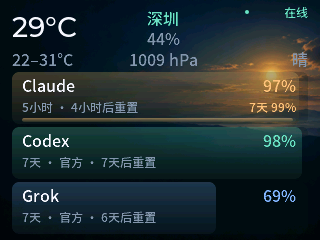
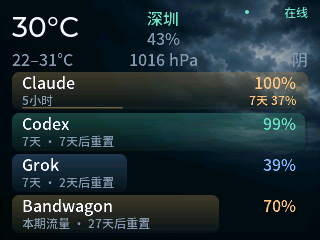
feat(display): dynamically lay out all server quotas and traffic balances

diff --git a/apps/xiaobucubic/tests/test_display.py b/apps/xiaobucubic/tests/test_display.py
@@ -57,9 +57,9 @@ class DisplayTest(unittest.TestCase):
         self.fixture["subscriptions"]=[dict(self.fixture["subscriptions"][0],id=str(n)) for n in range(30)]
         self.fixture["messages"]=[{"text":"test"} for _ in range(30)]
         data=self.normalize(self.fixture)
-        self.assertEqual(len(data.subscriptions),3)
+        self.assertEqual(len(data.subscriptions),30)
         self.assertEqual(len(data.messages),12)
-        self.assertEqual(len(self.model.pages(data)),2)
+        self.assertEqual(len(self.model.pages(data)),6)
 
     def test_remaining_and_long_message(self):
         data=self.normalize(self.fixture)
@@ -89,7 +89,7 @@ class DisplayTest(unittest.TestCase):
         lua.globals().PY_MODEL=self.model
         lua.globals().PY_DOC=lua_value(lua,self.fixture)
         lua.execute('''
-        labels={}; requests={}; writes={}; timers={}; nodes={}; node_id=1; cleans=0; mutations={}; images=0; mono=0; styles={}; long_modes={}
+        labels={}; requests={}; writes={}; timers={}; nodes={}; node_id=1; cleans=0; mutations={}; images=0; mono=0; styles={}; long_modes={}; positions={}; sizes={}
         LV_PART_MAIN=0; LV_OBJ_FLAG_SCROLLABLE=1; LV_TEXT_ALIGN_LEFT=0; LV_TEXT_ALIGN_RIGHT=1; LV_TEXT_ALIGN_CENTER=2
         LV_LABEL_LONG_WRAP=0; LV_LABEL_LONG_SCROLL=1; LV_LABEL_LONG_DOT=2; LV_GRAD_DIR_VER=1
         LV_FONT_MONTSERRAT_12=12; LV_FONT_MONTSERRAT_16=16; LV_FONT_MONTSERRAT_20=20; LV_FONT_MONTSERRAT_28=28
@@ -119,8 +119,13 @@ class DisplayTest(unittest.TestCase):
         lv_obj_create=create;lv_label_create=create
         lv_img_create=create;lv_img_set_src=function(id,path) image_path=path;images=images+1 end
         lv_obj_clean=function() labels={};nodes={};cleans=cleans+1 end
-        lv_obj_del=function(id) labels[id]=nil;nodes[id]=nil end
-        lv_obj_set_pos=function() end;lv_obj_set_size=function() end
+        lv_obj_del=function(id)
+          local children={};for child,parent in pairs(nodes) do if parent==id then children[#children+1]=child end end
+          for _,child in ipairs(children) do lv_obj_del(child) end
+          labels[id]=nil;nodes[id]=nil;positions[id]=nil;sizes[id]=nil
+        end
+        lv_obj_set_pos=function(id,x,y) positions[id]={x=x,y=y} end
+        lv_obj_set_size=function(id,w,h) sizes[id]={width=w,height=h} end
         lv_obj_clear_flag=function() end;lv_label_set_long_mode=function(id,mode) long_modes[id]=mode end
         lv_label_set_text=function(id,value) assert(type(value)=='string');labels[id]=value;mutations[#mutations+1]={id=id,text=value} end
         for _,s in ipairs({'bg_color','bg_opa','bg_grad_color','bg_grad_dir','bg_main_stop','bg_grad_stop','border_width','radius','pad_all','text_font','text_color','text_align','text_line_space'}) do
@@ -136,6 +141,126 @@ class DisplayTest(unittest.TestCase):
             """)
         lua.execute((ROOT/"package/main.lua").read_text())
         return lua.globals()
+
+    def dynamic_subscriptions(self, count):
+        now=self.fixture["generated_at"]
+        return [{"id":f"provider-{i}","name":f"服务{i}","source":"official","updated_at":now,
+                 "windows":[{"label":"本期","used_percent":i,"reset_at":now+86400}]}
+                for i in range(count)]
+
+    def test_dynamic_layout_retains_order_and_never_overflows(self):
+        for count in (0,1,2,3,4,5,6,7,12,13,30):
+            with self.subTest(count=count):
+                self.fixture["subscriptions"]=self.dynamic_subscriptions(count)
+                data=self.normalize(self.fixture)
+                seen=[]
+                for page in range(1,self.model.quota_pages(data)+1):
+                    cards,actual=self.model.subscription_layout(data,page)
+                    self.assertEqual(actual,page)
+                    boxes=[]
+                    for card in cards.values():
+                        seen.append(data.subscriptions[card.index].id)
+                        x,y,w,h=card.x,card.y,card.width,card.height
+                        self.assertGreaterEqual(x,0);self.assertGreaterEqual(y,72)
+                        self.assertLessEqual(x+w,320);self.assertLessEqual(y+h,240)
+                        for bx,by,bw,bh in boxes:
+                            self.assertFalse(x<bx+bw and x+w>bx and y<by+bh and y+h>by)
+                        boxes.append((x,y,w,h))
+                self.assertEqual(seen,[p["id"] for p in self.fixture["subscriptions"]])
+
+    def test_traffic_balance_from_fields_not_provider_id(self):
+        self.fixture["subscriptions"]=self.dynamic_subscriptions(4)
+        self.fixture["subscriptions"][3]["windows"][0].update(
+            total_bytes=1000*1024**3,used_bytes=250*1024**3,remaining_bytes=1,used_percent=99)
+        data=self.normalize(self.fixture)
+        w=data.subscriptions[4].windows[1]
+        self.assertEqual(w.remaining_bytes,750*1024**3)
+        self.assertEqual(w.used_percent,25)
+        g=self.boot();g.requests[1](200,"valid")
+        self.assertIn("服务3",list(g.labels.values()))
+        self.assertIn("750GiB/1000GiB",list(g.labels.values()))
+        self.assertTrue(any("75%" in value for value in g.labels.values()))
+        self.assertEqual(self.model.format_bytes(0),"0B")
+        self.assertEqual(self.model.format_bytes(1024**4),"1TiB")
+        self.assertEqual(self.model.format_bytes(1024**3-1),"1023.9MiB")
+        self.assertEqual(self.model.format_bytes(None),"--")
+
+    def test_invalid_traffic_does_not_show_fabricated_balance(self):
+        for total,used in ((0,1),(100,-1),(True,1),(100,"1"),(float("inf"),1),(100,0.5)):
+            with self.subTest(total=total,used=used):
+                self.fixture["subscriptions"]=self.dynamic_subscriptions(1)
+                self.fixture["subscriptions"][0]["windows"][0].update(total_bytes=total,used_bytes=used)
+                w=self.normalize(self.fixture).subscriptions[1].windows[1]
+                self.assertIsNone(w.remaining_bytes)
+        self.fixture["subscriptions"][0]["windows"][0].update(total_bytes=100,used_bytes=125)
+        w=self.normalize(self.fixture).subscriptions[1].windows[1]
+        self.assertEqual(w.remaining_bytes,0)
+        self.assertEqual(self.model.remaining(w),0)
+
+    def test_unknown_provider_two_windows_and_grid_geometry(self):
+        self.fixture["subscriptions"]=self.dynamic_subscriptions(6)
+        self.fixture["subscriptions"][0]["windows"].append({"label":"年额度","used_percent":50})
+        self.fixture["subscriptions"][5]["windows"][0].update(total_bytes=1000,used_bytes=400)
+        g=self.boot();g.requests[1](200,"valid")
+        self.assertIn("年额度 50%",list(g.labels.values()))
+        self.assertIn("600B/1000B",list(g.labels.values()))
+        for i in range(6):self.assertIn(f"服务{i}",list(g.labels.values()))
+        for label in g.labels:
+            parent=g.nodes[label]
+            if parent!=0:
+                pos,size=g.positions[label],g.sizes[label]
+                panel=g.sizes[parent]
+                self.assertGreaterEqual(pos.x,0);self.assertGreaterEqual(pos.y,0)
+                self.assertLessEqual(pos.x+size.width,panel.width)
+                self.assertLessEqual(pos.y+size.height,panel.height)
+        g.key.callback(g.key.UP,g.key.SHORT)
+        self.assertIn("50%",list(g.labels.values()))
+        self.assertIn("本期 100%",list(g.labels.values()))
+
+    def test_all_subscription_pages_reachable_without_messages(self):
+        self.fixture["subscriptions"]=self.dynamic_subscriptions(13)
+        self.fixture["messages"]=[]
+        g=self.boot();g.requests[1](200,"valid")
+        observed=set()
+        for page in range(3):
+            observed.update(text for text in g.labels.values() if text.startswith("服务"))
+            g.key.callback(g.key.RIGHT,g.key.SHORT)
+        self.assertEqual(observed,{f"服务{i}" for i in range(13)})
+        self.assertEqual(g.XIAOBUCUBIC.state.quota_page,1)
+        g.key.callback(g.key.LEFT,g.key.SHORT)
+        self.assertEqual(g.XIAOBUCUBIC.state.quota_page,3)
+        self.assertIn("服务12",list(g.labels.values()))
+        for _ in range(15):g.timers[1].callback()
+        self.assertEqual(g.XIAOBUCUBIC.state.quota_page,1)
+
+    def test_message_page_follows_all_quota_pages(self):
+        self.fixture["subscriptions"]=self.dynamic_subscriptions(7)
+        g=self.boot();g.requests[1](200,"valid")
+        for _ in range(15):g.timers[1].callback()
+        self.assertEqual(g.XIAOBUCUBIC.state.page,1)
+        self.assertEqual(g.XIAOBUCUBIC.state.quota_page,2)
+        for _ in range(15):g.timers[1].callback()
+        self.assertEqual(g.XIAOBUCUBIC.state.page,2)
+        g.key.callback(g.key.RIGHT,g.key.SHORT)
+        self.assertEqual(g.XIAOBUCUBIC.state.page,1)
+        self.assertEqual(g.XIAOBUCUBIC.state.quota_page,1)
+
+    def test_add_remove_reorder_reflows_without_clearing_screen(self):
+        self.fixture["messages"]=[]
+        self.fixture["subscriptions"]=self.dynamic_subscriptions(3)
+        g=self.boot();g.requests[1](200,"valid")
+        cleans=g.cleans
+        for count in (4,6,7,1,0,5):
+            self.fixture["subscriptions"]=list(reversed(self.dynamic_subscriptions(count)))
+            g.PY_DOC=lua_value(self.lua,self.fixture)
+            g.XIAOBUCUBIC.refresh(True);g.requests[len(g.requests)](200,"valid")
+            self.assertEqual(g.cleans,cleans)
+            self.assertLessEqual(g.XIAOBUCUBIC.state.quota_page,self.model.quota_pages(g.XIAOBUCUBIC.state.snapshot))
+            current=set(text for text in g.labels.values() if text.startswith("服务"))
+            self.assertEqual(current,{p["name"] for p in self.fixture["subscriptions"][:6]})
+            if count==7:
+                g.key.callback(g.key.RIGHT,g.key.SHORT)
+                self.assertEqual(g.XIAOBUCUBIC.state.quota_page,2)
 
     def test_http_auth_error_keeps_last_good_snapshot(self):
         g=self.boot()

diff --git a/apps/xiaobucubic/tools/build.py b/apps/xiaobucubic/tools/build.py
@@ -2,9 +2,11 @@
 """Build an SD-card layout ZIP. Runtime credentials/cache are never included."""
 from pathlib import Path
 import zipfile
+import re
 
 root = Path(__file__).resolve().parents[1]
-out = root/"dist/xiaobucubic-1.0.0.zip"
+version = re.search(r"^version\s*=\s*([\w.-]+)\s*$", (root/"package/app.info").read_text(), re.M).group(1)
+out = root/f"dist/xiaobucubic-{version}.zip"
 out.parent.mkdir(exist_ok=True)
 with zipfile.ZipFile(out, "w", zipfile.ZIP_DEFLATED) as archive:
     for file in sorted((root/"package").rglob("*")):

diff --git a/apps/xiaobucubic/README.md b/apps/xiaobucubic/README.md
@@ -2,7 +2,9 @@
 
 运行于 **ClocTeck HoloCubic Lua 固件**的小屏信息面板，针对 320×240 设计。安装应用不需要重新烧录固件。
 
-只有两个视图：**主页**显示 Claude、Codex、Grok 的剩余额度、重置倒计时，并将天气融合进背景与顶部；**消息页**显示提醒文字。有消息时每 15 秒在两个视图间轮播，多条消息依次展示；没有消息时一直停留在主页。服务返回空提醒数组后立即回到主页。
+**主页**按服务端 `subscriptions` 数组动态显示全部订阅、流量余额和重置倒计时，不写死提供商名称或数量。1–3 项使用宽卡片，4 项缩短行高同屏显示，5–6 项改为两列；超过 6 项自动分页，每 15 秒轮播，也可左 / 右翻页。天气融合进背景与顶部；有有效提醒时，在所有额度页之后插入**消息页**，多条消息依次展示。服务删除提醒后回到额度页。
+
+余额来自窗口字段：只有百分比时显示剩余百分比；提供 `total_bytes` 和 `used_bytes` 时自动显示实际剩余 / 总流量（如 `750GiB/1000GiB`），同时保留剩余比例。任意提供商的双窗口都显示次窗口细条；新增搬瓦工或其他项目不需要再次修改客户端。接口增删、重排项目时复用现有控件并重新计算位置。
 
 主页省去“Token 额度 / 剩余比例 / 主窗口”等说明行，直接展示天气和额度卡片。有天气背景时，卡片底板和进度填充均为半透明，叠加后不超过 40.4% 不透明度，天气图案可透出。额度进度以卡片全高的半透明纵向渐变表示，上方稍亮、下方渐淡，宽度对应剩余额度，文字位于填充上层。剩余低于 20% 为警告黄，低于 5% 为警戒红（数字与填充同步变色），20% 及以上使用订阅配色；天气“已过期”提示独立显示在天气文字上方。Claude 的另一个额度窗口显示为卡片底部 4px 细条，右下角显示窗口标签与剩余百分比；默认大面积显示 5 小时额度，细条显示 7 天额度，上键交换两者。Claude 下方说明固定显示窗口与重置时间，省略重复的“官方”字样，过长文本省略显示，不滚动。两个视图均不设标题栏和底部状态栏，右上角显示同步 / 在线 / 离线状态。模拟数据的“演示”标识紧邻右上角联网状态。额度卡片和消息正文使用释放出的底部空间。消息不显示标题；正文使用 22px 中文字体，每段最多 7 行，保留原始换行，自动折行和分段；城市、湿度和气压在中间一列统一居中对齐，湿度（如 `51%`）放在城市下方；天气区下沿依次显示温度范围（`23–32°C`）、气压（`1011 hPa`）和天气（如“晴”），使用 16px 字号并省去数值的文字标签。
 
@@ -10,14 +12,16 @@
 
 | 操作 | 效果 |
 |---|---|
-| 左 / 右 | 有消息时切换主页 / 消息页；无消息时留在主页 |
+| 左 / 右 | 在全部额度页及有效消息页之间切换；只有一页时保持当前页 |
 | 上 | 主页切换可用的主 / 次额度窗口并刷新（单窗口订阅保持不变）；消息页显示下一条 / 下一段 |
 | 下 | 暂停 / 恢复轮播 |
 | Home | 退出 |
 
 ## 安装
 
-`package/` 的内容复制到 TF 卡 `/apps/xiaobucubic/`，然后在 Launcher 重新扫描应用。也可将 `dist/xiaobucubic-1.0.0.zip` 解压到 TF 卡根目录。
+`package/` 的内容复制到 TF 卡 `/apps/xiaobucubic/`，然后在 Launcher 重新扫描应用。也可将 `dist/xiaobucubic-1.1.0.zip` 解压到 TF 卡根目录。升级时保留设备已有 `config.json` 与 `cache.json`，不要用包内空配置覆盖实际服务端地址和读取 token。
+
+USB 读卡器可直接更新 TF 卡；设备的 ESP32 USB 烧录串口与 TF 卡文件是两个不同通道。当前项目提供的是 Lua 应用安装包，并非可写入 ESP32 Flash 的整机 ROM 镜像。
 
 设备已联网时，使用 Python 3 的部署工具（无第三方依赖）：
 

diff --git a/apps/xiaobucubic/API.md b/apps/xiaobucubic/API.md
@@ -31,7 +31,7 @@ Authorization: Bearer <read_token>
 | `generated_at` | 必填，响应生成时间 |
 | `stale_after_seconds` | 可选，数据有效期，默认 900 秒，范围 30–86400 |
 | `demo` | 可选，`true` 显示醒目的“演示”标识；生产数据设 `false` 或省略 |
-| `subscriptions` | 必填数组，主页显示前 3 项，按服务端数组顺序显示，不重新按 `order` 排序 |
+| `subscriptions` | 必填数组，保留全部项目，按服务端顺序动态排版；1–4 项单列、5–6 项双列，更多项目每页最多 6 项自动轮播，也可左 / 右翻页 |
 | `messages` | 必填数组，最多 12 条，在同一个消息页依次展示；`[]` 时只显示主页 |
 | `weather` | 对象或 `null`；融合在主页，不设独立天气页 |
 
@@ -51,9 +51,10 @@ Authorization: Bearer <read_token>
 }
 ```
 
-- `id` 是稳定标识，内置 Claude / Codex / Grok 配色；也支持其他订阅。
-- `windows[1]` 为主窗口，`windows[2]` 为次窗口；上键切换，最多 2 个窗口。Claude 有两个窗口时，当前窗口显示为大面积填充，另一个窗口显示为卡片底部 4px 半透明细条及标签 / 剩余百分比，上键交换大小窗口。Claude 双窗口时省略重复的“官方”来源字样，保留窗口和重置时间；下方两段文字固定显示，过长时省略，不滚动。按数组顺序选取，默认第一项为大窗口，第二项为细条；不根据标签文字猜测窗口。只有一个窗口的订阅始终显示它；所有订阅都只有一个窗口时，上键不切换。`label` 仅作显示，支持任意 N 天 / 小时 / 分钟及“本期”等文字。
+- `id` 是稳定标识，同一响应内重复 ID 仅保留首项。名称、用量与窗口均从服务端读取；卡片按顺序循环配色，不依赖提供商 ID。
+- `windows[1]` 为主窗口，`windows[2]` 为次窗口；上键切换，最多 2 个窗口。任何订阅有两个窗口时，另一个窗口都显示为卡片底部细条及标签 / 剩余百分比，上键交换两者；不依赖提供商名称或标签文字。只有一个窗口时始终显示它。标签与重置倒计时在空间有限时省略，保留主余额和次窗口百分比。
 - `used_percent` 是 **已用百分比**。显示端转换成 **剩余百分比** `floor(max(0, 100 - used_percent))`。支持小数：33.5 显示剩余 66%，99.6 显示剩余 0%；例如 62 显示剩余 38%。`0` 是确实未用，显示剩余 100%；未知用 `null` 或省略，显示 `--`。这不是精确剩余 token 数。
+- 流量窗口可附带 `total_bytes`、`used_bytes`、`remaining_bytes`。有效的总量与用量必须是非负整数字节数，总量大于零，均不超过 `2^53-1`；客户端据此计算 `max(0,total_bytes-used_bytes)` 及比例，不依赖 provider ID，也不信任不一致的剩余数。单列卡片显示“剩余/总量”（如 `750GiB/1000GiB`），双列卡片额外用一行展示容量；单位随数值自动选择 B / KiB / MiB / GiB / TiB / PiB。无效字节字段忽略，继续使用百分比；不将缺失量伪造为零。
 - 剩余比例 `< 20%` 为警告黄，`< 5%` 为警戒红；恰好 20% 使用正常配色，恰好 5% 为黄色。卡片填充始终半透明，从上向下渐淡；0% 无填充、数字为红色，未知值仍显示 `--`。
 - `source` 可为 `official`、`manual`、`estimated`、`unknown`，对应官方、手动、估算、待接入。这是接口的来源声明，设备不独立验证。
 - 缺失或过期的 `updated_at`、已到期的 `reset_at` 会标记过期 / 待刷新，不擅自将用量归零。

diff --git a/apps/xiaobucubic/VALIDATION.md b/apps/xiaobucubic/VALIDATION.md
@@ -1,5 +1,17 @@
 # 验证记录
 
+## 2026-10-26：动态额度与流量余额（1.1.0）
+
+- 不再将订阅截断为前三项；保留服务端数组顺序，任意名称和 ID 均可显示。
+- 1–3 项使用宽卡片，4 项压缩行高同屏显示，5–6 项使用两列，更多项目按每页最多 6 项轮播。左右键遍历全部额度页和有效消息页；移除项目后自动收缩页数和布局。
+- 按窗口的总量、用量字节字段计算剩余量，显示自适应容量单位；双窗口显示不再限定 Claude。未知值、过期状态、告警阈值与缓存规则保留。
+- 38 项 Lua 测试、1 项模拟接口测试、13 项服务器测试通过。新增测试覆盖 0–30 项的数据保留、布局边界和不重叠、第四项流量显示、无效字节数据、任意提供商双窗口、分页与消息轮播，以及动态增删重排不清屏。
+- 已生成 `dist/xiaobucubic-1.1.0.zip`；安装包版本从 `app.info` 读取。
+- 已安装到 `10.15.2.72` 并逐文件回读校验；升级备份在 `.runtime/backups/20261026-145203-953595/`。设备 `config.json` 与升级前逐字节一致。
+- 实机真实接口返回 Claude、Codex、Grok、Bandwagon 四项，均已同屏显示；截图检查无卡片重叠或底部裁切。此次 Bandwagon 接口只提供百分比，显示剩余 70%，未伪造剩余字节数。
+- 两次真实 API 响应间隔 61 秒，第二次响应清屏次数为 0；字体加载正常，提醒页截图检查通过，临时 QA 已移除并恢复正式应用。[新版主页截图](preview/home.png)。
+- 连接排障：电脑原在 `10.17.0.x`，设备在 `10.15.2.x`，HTTP 请求超时。查阅此前成功记录后切换电脑至设备所在的已保存 Wi-Fi，电脑获得 `10.15.2.42` 后即恢复访问并完成安装。Type-C 曾成功输入 Wi-Fi 配网命令，应用文件安装使用网络接口；并非权限阻止了串口输入。此次只读检查确认 ESP32-S3 USB 烧录通道可用、Flash Encryption Enabled、Secure Boot Disabled，未执行底层 Flash 写入。
+
 2026-10-22，ClocTeck HoloCubic，固件 1.212，320×240 屏幕。
 
 - 23 项 Lua 模型 / 生命周期 / 局部刷新测试全部通过，另有 1 项 Python 模拟接口测试通过。

diff --git a/server/README.md b/server/README.md
@@ -56,7 +56,7 @@ python3 banwagong_usage.py --push --interval 300
 - 窗口新增的三个字节字段是可选扩展。写入流量窗口必须同时提供 `total_bytes`、`used_bytes`；服务端计算剩余量和百分比，若提交了不一致的 `remaining_bytes` 则拒绝。原有仅百分比的窗口不受影响。
 - 采集时间不会随读取刷新；服务端沿用现有 `*_utc` 调试字段。
 
-当前 Lua 设备端只显示订阅数组前三项，且不展示字节数字。第四项可由接口读取；在设备上同时展示四项需另外调整客户端布局。
+Lua 客户端 1.1.0 起保留全部订阅，并根据数量动态排版：四项同屏、五到六项双列、更多项自动分页。流量窗口自动显示实际剩余 / 总容量，无需按提供商 ID 适配。旧版 1.0.0 仍只显示前三项，需要升级设备上的应用文件。
 
 ## 验证
 

diff --git a/README.md b/README.md
@@ -4,7 +4,7 @@
 
 ![主页预览](apps/xiaobucubic/preview/home.png)
 
-- 主页显示 Claude、Codex、Grok 剩余额度；Claude 同时显示两个用量窗口。
+- 主页按服务端数据动态排列全部额度和流量余额，支持多窗口；四项同屏、五到六项双列，更多项目自动分页。
 - 额度卡片使用半透明渐变，低于 20% 显示黄色，低于 5% 显示红色。
 - 天气背景随预报变化，显示温度、湿度和气压。
 - 有有效提醒时轮播消息页，过期消息自动退出；消息正文使用大字号并自动换行。
